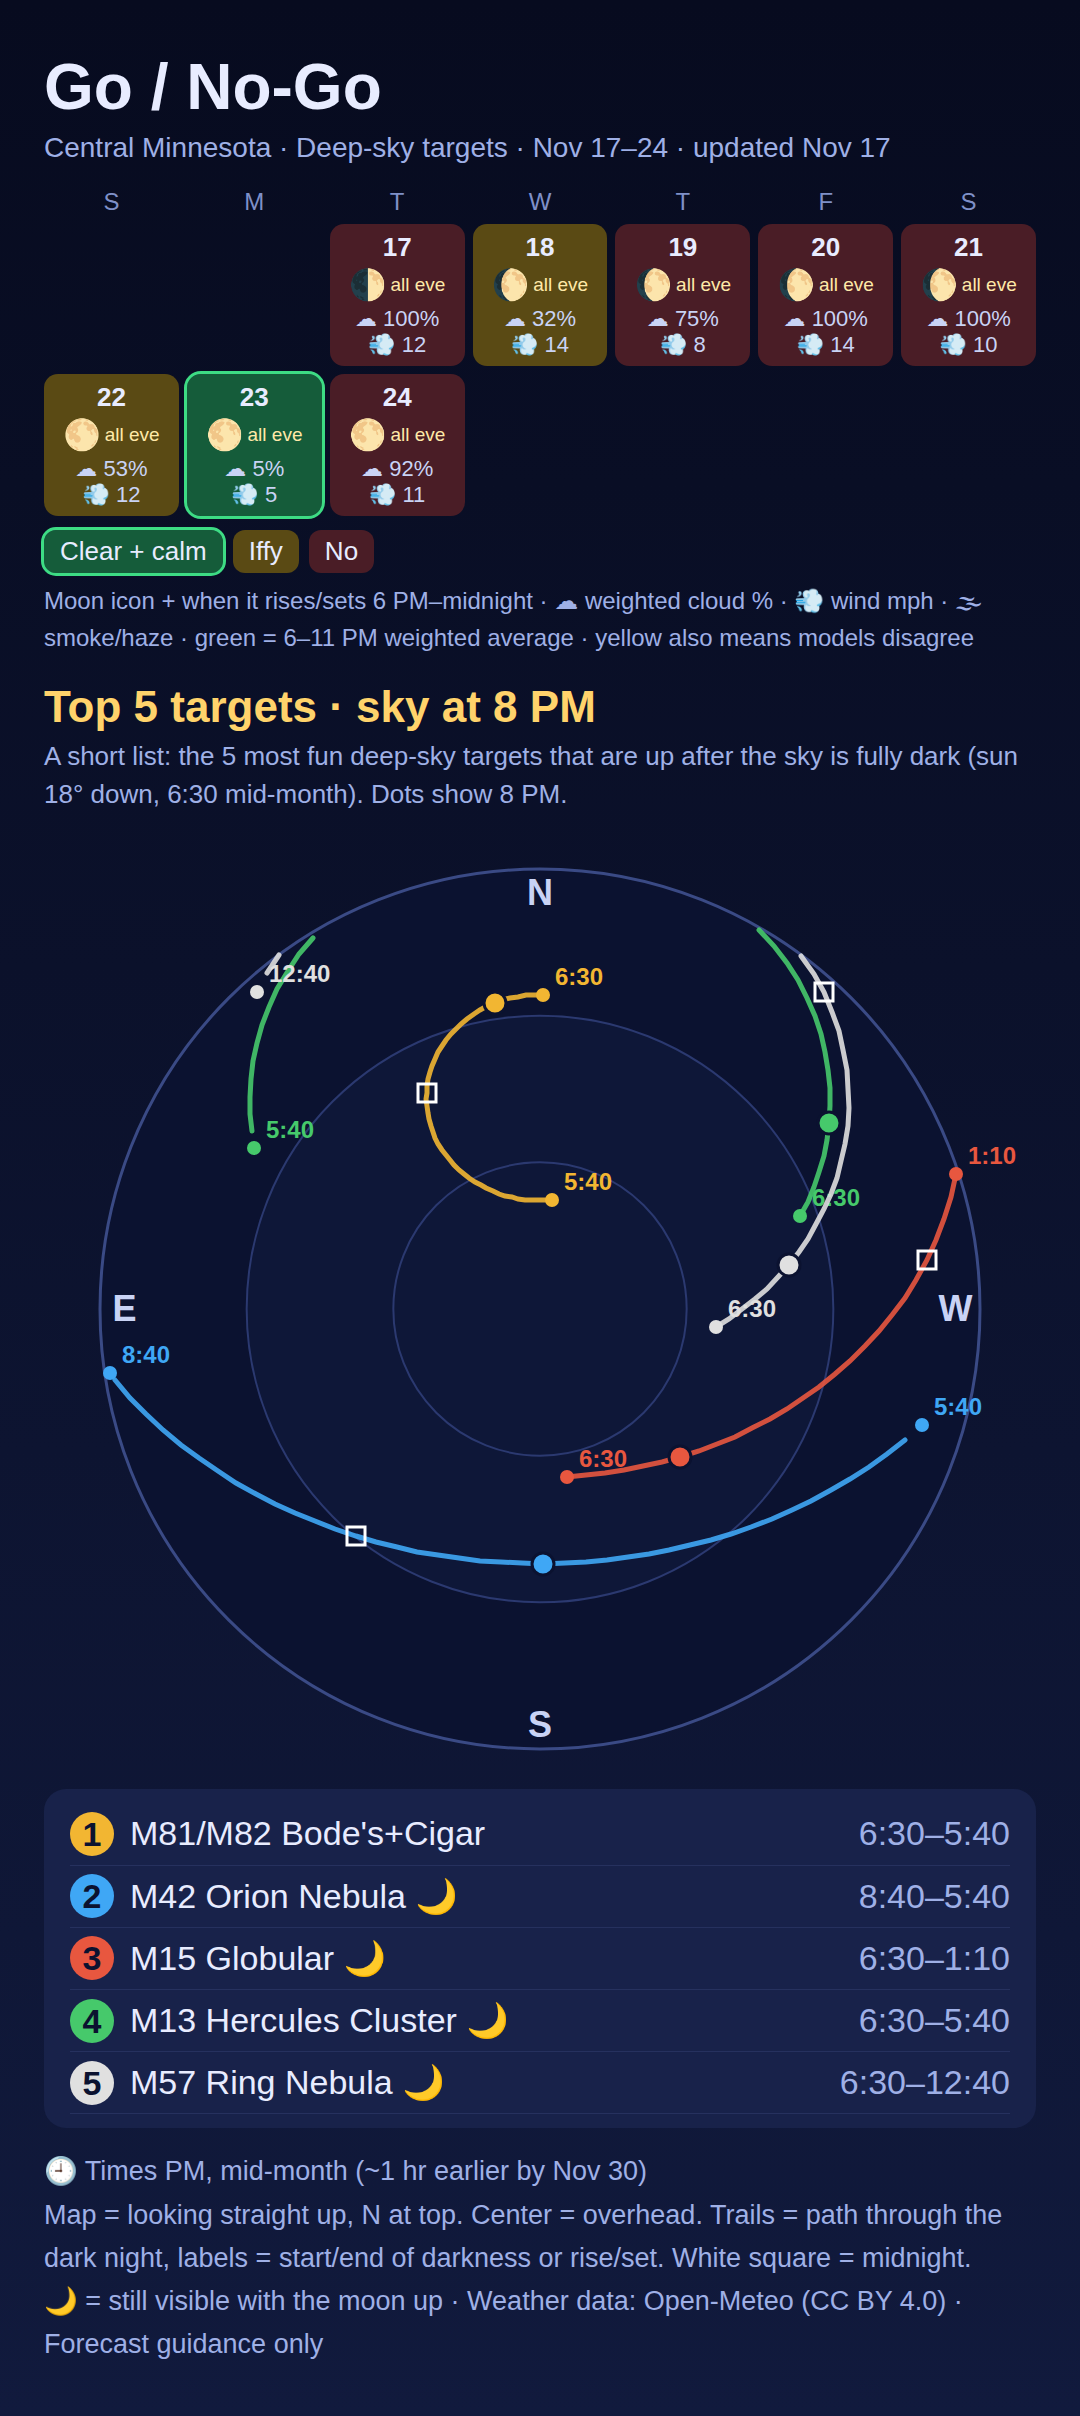
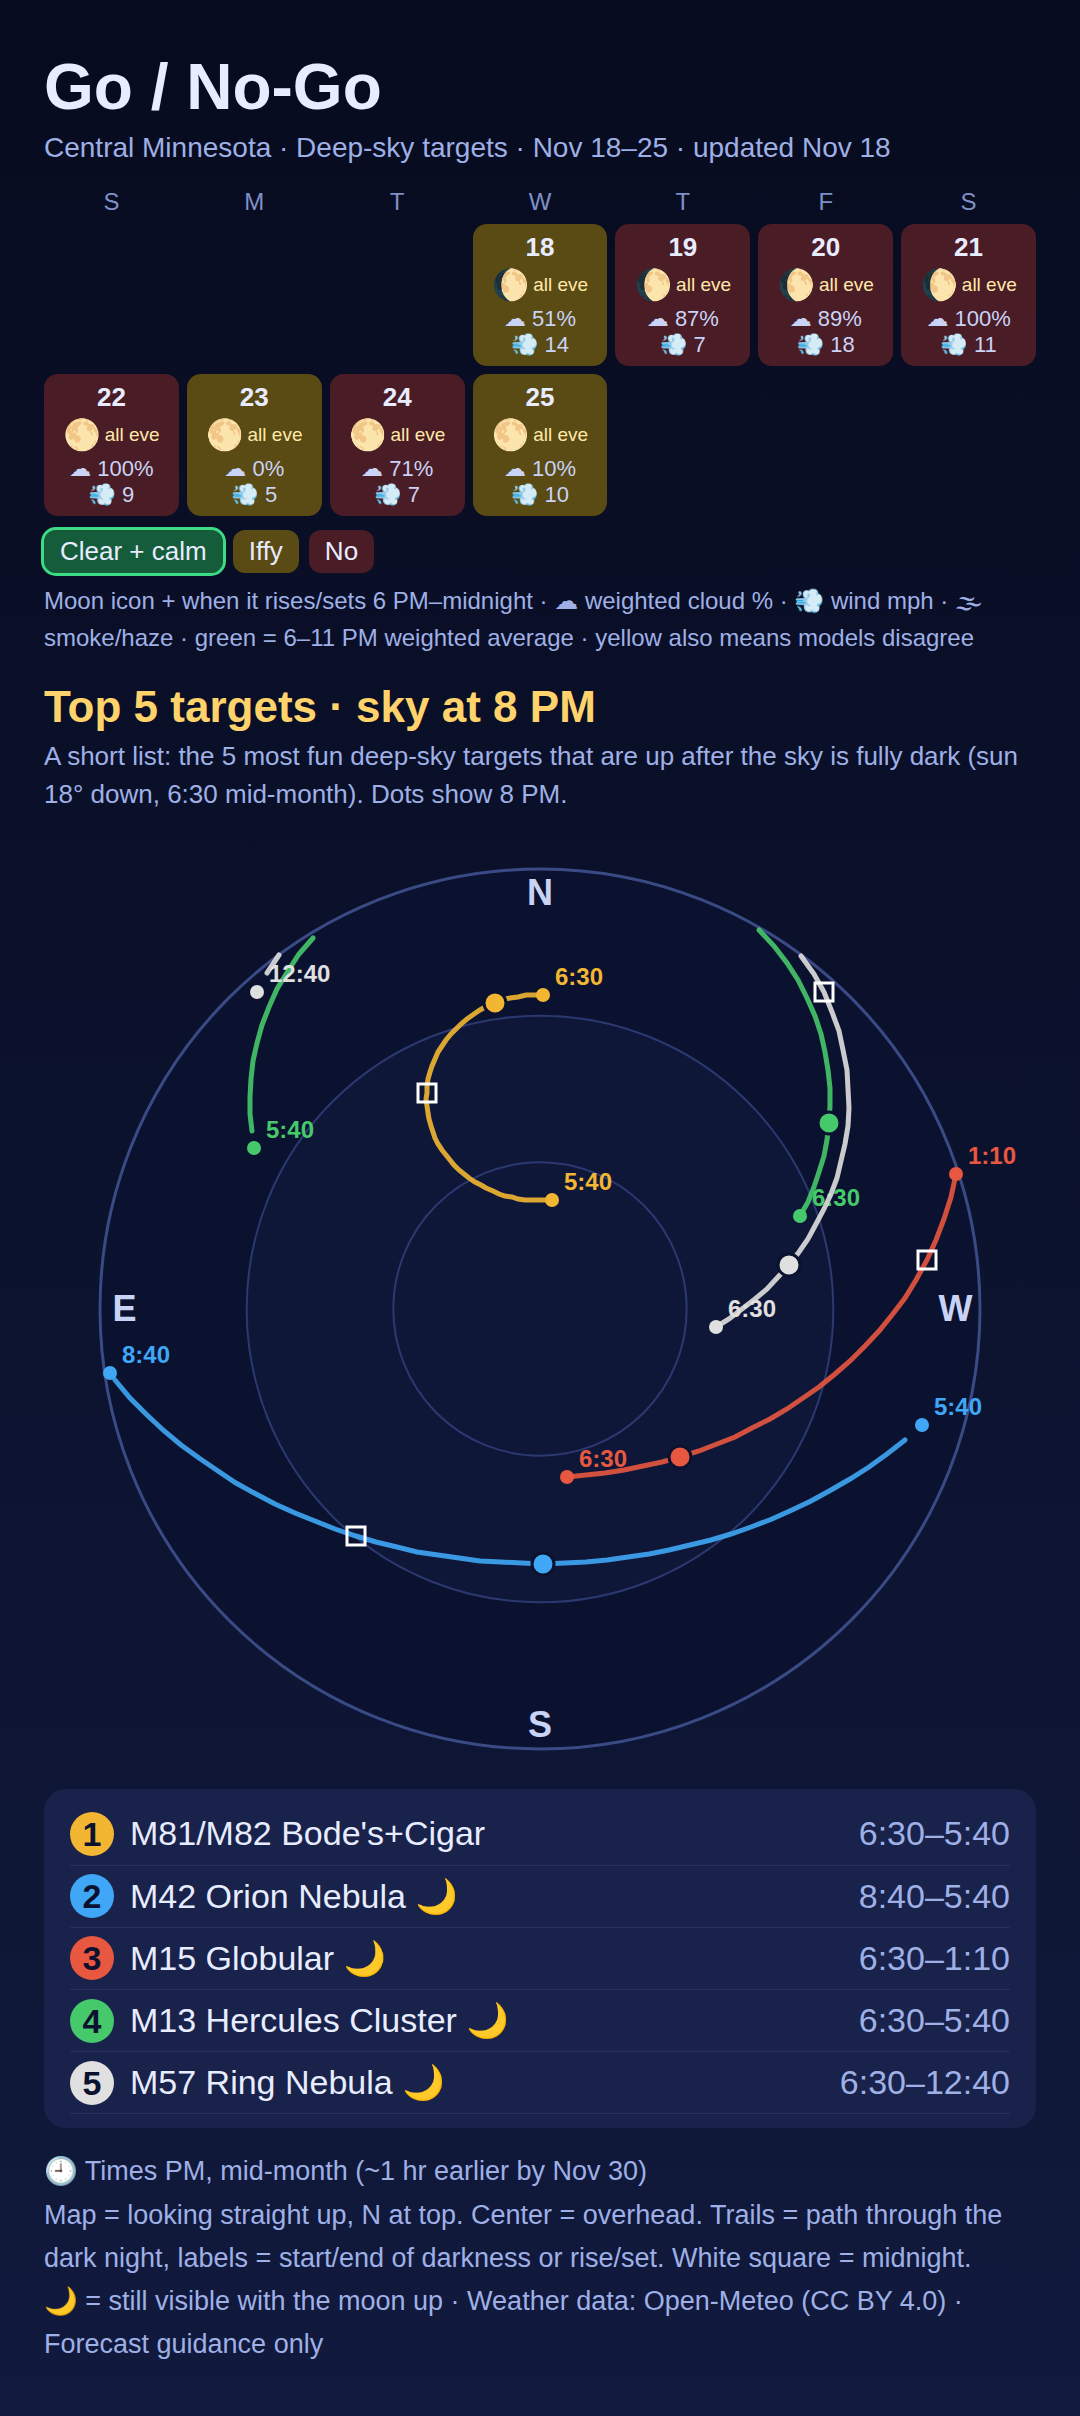
Update stargazing forecast (Nov 18)

diff --git a/_includes/forecast_status.html b/_includes/forecast_status.html
@@ -1,2 +1,2 @@
-<p class="notice--info"><strong>Forecast updated Nov 17:</strong> Next good night: Mon Nov 23 (low confidence) (models disagree): M15 Globular, 6:30 pm-9:40 pm (clear 5.5h, longest 6:30 pm-12:00 am, low 25F)</p>
+<p class="notice--info"><strong>Forecast updated Nov 18:</strong> Next good night: Mon Nov 23 (low confidence) (models disagree): M15 Globular, 6:30 pm-9:40 pm (clear 5.5h, longest 6:30 pm-12:00 am, low 25F)</p>
 <p class="small">Weather data: <a href="https://open-meteo.com/">Open-Meteo</a> (CC BY 4.0). Forecast guidance only — check the sky before heading out.</p>

diff --git a/_posts/1900-01-01-about.md b/_posts/1900-01-01-about.md
@@ -1,6 +1,6 @@
 ---
 title: Coming up
-date: 2026-11-17
+date: 2026-11-18
 header:
   teaser: /images/month.png
 ---
